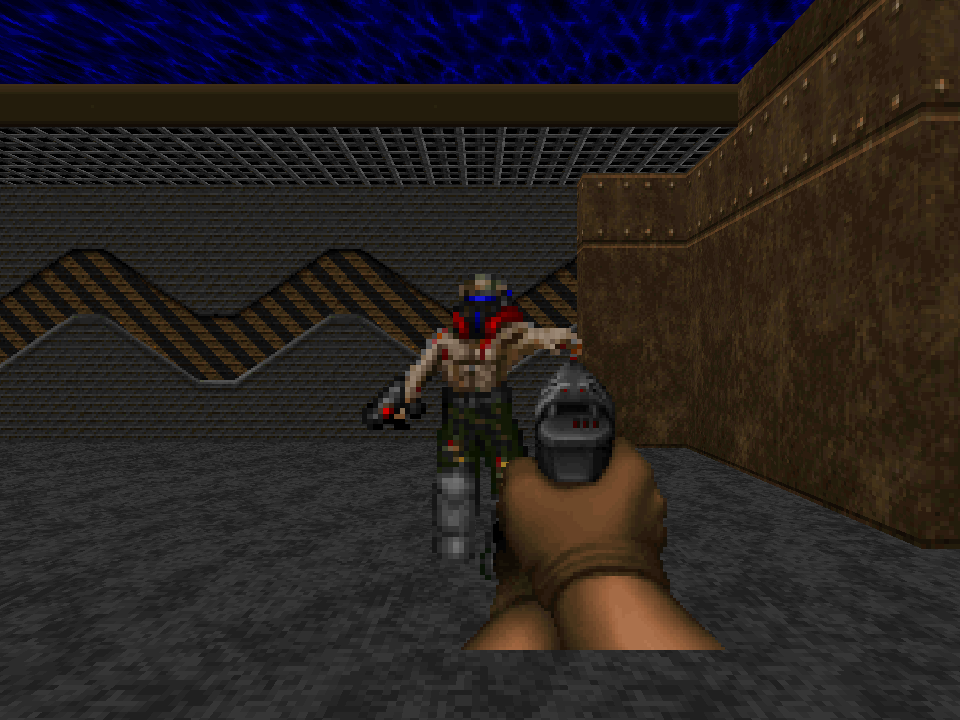
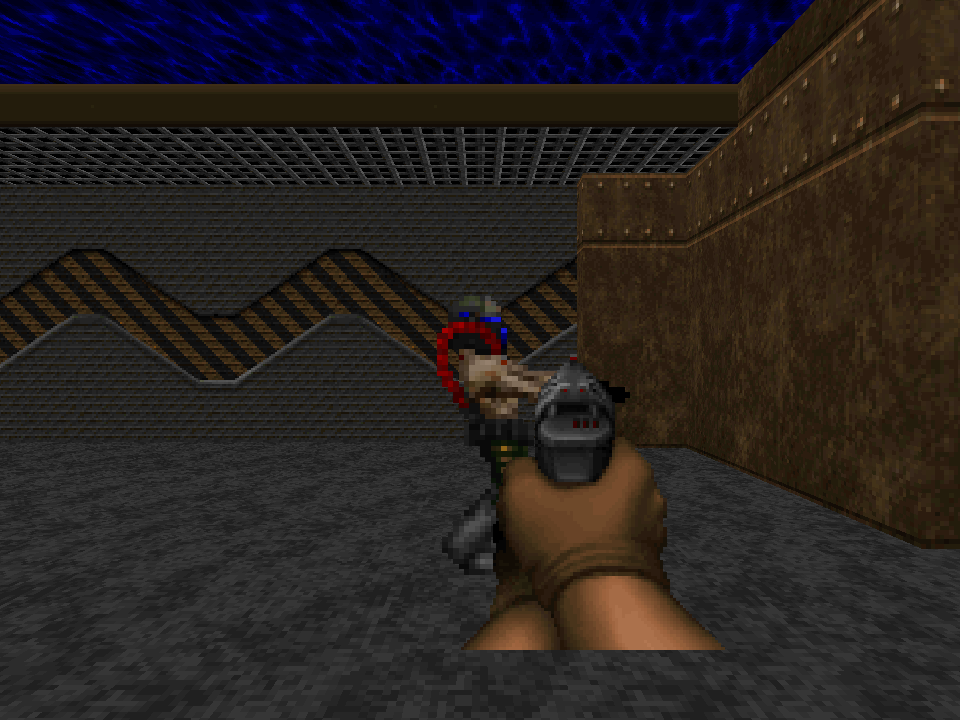
feat: select Freedoom enemy sprite views

Changed region(s): [[0.375, 0.3667, 0.625, 0.7944], [0.625, 0.5194, 0.6562, 0.5806]]

diff --git a/examples/freedoom_map.rs b/examples/freedoom_map.rs
@@ -634,17 +634,48 @@ fn monster_sprite(kind: u16) -> Option<([u8; 4], i32)> {
     }
 }
 
-fn sprite_walk_textures(data: &[u8], prefix: [u8; 4]) -> api::Result<Vec<SpriteTexture>> {
+fn sprite_walk_textures(data: &[u8], prefix: [u8; 4]) -> api::Result<Vec<Vec<SpriteTexture>>> {
+    let lumps = wad_lumps(data)?;
     b"ABCD"
         .iter()
-        .map(|frame| {
-            let mut name = [0; 8];
-            name[..4].copy_from_slice(&prefix);
-            name[4] = *frame;
-            name[5] = b'1';
-            sprite_patch_texture(data, name)
+        .map(|&frame| {
+            (1..=8)
+                .map(|rotation| {
+                    let (mut name, mut flip) = sprite_view_name(prefix, frame, rotation);
+                    if !lumps.iter().any(|lump| lump.name == name) {
+                        name = [0; 8];
+                        name[..4].copy_from_slice(&prefix);
+                        name[4] = frame;
+                        name[5] = b'0' + rotation;
+                        flip = false;
+                    }
+                    let mut texture = sprite_patch_texture(data, name)?;
+                    texture.horizontal_flip = flip;
+                    Ok(texture)
+                })
+                .collect()
         })
         .collect()
+}
+
+fn sprite_view_name(prefix: [u8; 4], frame: u8, rotation: u8) -> ([u8; 8], bool) {
+    let (first, second, flip): (u8, Option<u8>, bool) = match rotation {
+        1 => (b'1', None, false),
+        2 | 8 => (b'2', Some(b'8'), rotation == 8),
+        3 | 7 => (b'3', Some(b'7'), rotation == 7),
+        4 | 6 => (b'4', Some(b'6'), rotation == 6),
+        5 => (b'5', None, false),
+        _ => unreachable!("sprite rotation must be between one and eight"),
+    };
+    let mut name = [0; 8];
+    name[..4].copy_from_slice(&prefix);
+    name[4] = frame;
+    name[5] = first;
+    if let Some(second) = second {
+        name[6] = frame;
+        name[7] = second;
+    }
+    (name, flip)
 }
 
 fn actor_walk_frame_tics(sprite: [u8; 4]) -> f32 {
@@ -660,6 +691,10 @@ fn actor_walk_frame(sprite: [u8; 4], animation_time: f32) -> usize {
     let frame_tics = actor_walk_frame_tics(sprite);
     let cycle_seconds = frame_tics * 4.0 / 35.0;
     (animation_time.rem_euclid(cycle_seconds) * 35.0 / frame_tics).floor() as usize
+}
+
+fn actor_view_rotation(actor_angle: f32, viewer_to_actor_angle: f32) -> usize {
+    ((viewer_to_actor_angle - actor_angle + 202.5).rem_euclid(360.0) / 45.0).floor() as usize
 }
 
 fn sprite_patch_texture(data: &[u8], name: [u8; 8]) -> api::Result<SpriteTexture> {
@@ -692,6 +727,7 @@ fn sprite_patch_texture(data: &[u8], name: [u8; 8]) -> api::Result<SpriteTexture
         width: width as f32,
         height: height as f32,
         left_offset: left_offset as f32,
+        horizontal_flip: false,
     })
 }
 
@@ -784,7 +820,7 @@ struct PreparedScene {
     weapon_pipeline: Arc<ShaderPipeline>,
     sampler: Sampler,
     draws: Vec<Draw>,
-    sprites: BTreeMap<[u8; 4], Vec<SpriteTexture>>,
+    sprites: BTreeMap<[u8; 4], Vec<Vec<SpriteTexture>>>,
     pickup_sprites: BTreeMap<[u8; 4], SpriteTexture>,
     weapon_idle: SpriteTexture,
     weapon_fire: SpriteTexture,
@@ -800,6 +836,7 @@ struct SpriteTexture {
     width: f32,
     height: f32,
     left_offset: f32,
+    horizontal_flip: bool,
 }
 
 #[derive(Clone, Copy)]
@@ -810,6 +847,7 @@ struct Actor {
     health: i32,
     attack_cooldown: f32,
     animation_time: f32,
+    angle: f32,
 }
 
 struct Projectile {
@@ -890,6 +928,7 @@ fn billboard_vertices(
     bottom: f32,
     height: f32,
     sector: Sector,
+    horizontal_flip: bool,
 ) -> Vec<Vertex> {
     let right = Vertex2 {
         x: left.x + axis.x * width,
@@ -900,22 +939,27 @@ fn billboard_vertices(
     let top_left = world(left, bottom + height);
     let top_right = world(right, bottom + height);
     let color = shaded([1.0; 3], sector);
+    let (left_u, right_u) = if horizontal_flip {
+        (1.0, 0.0)
+    } else {
+        (0.0, 1.0)
+    };
     let mut vertices = Vec::with_capacity(6);
     push_triangle_uv(
         &mut vertices,
         [
-            (bottom_left, Vec2::new(0.0, 1.0)),
-            (bottom_right, Vec2::new(1.0, 1.0)),
-            (top_right, Vec2::new(1.0, 0.0)),
+            (bottom_left, Vec2::new(left_u, 1.0)),
+            (bottom_right, Vec2::new(right_u, 1.0)),
+            (top_right, Vec2::new(right_u, 0.0)),
         ],
         color,
     );
     push_triangle_uv(
         &mut vertices,
         [
-            (bottom_left, Vec2::new(0.0, 1.0)),
-            (top_right, Vec2::new(1.0, 0.0)),
-            (top_left, Vec2::new(0.0, 0.0)),
+            (bottom_left, Vec2::new(left_u, 1.0)),
+            (top_right, Vec2::new(right_u, 0.0)),
+            (top_left, Vec2::new(left_u, 0.0)),
         ],
         color,
     );
@@ -939,7 +983,15 @@ fn sprite_vertices(
         x: x - axis.x * sprite.left_offset,
         y: y - axis.y * sprite.left_offset,
     };
-    billboard_vertices(left, axis, sprite.width, bottom, sprite.height, sector)
+    billboard_vertices(
+        left,
+        axis,
+        sprite.width,
+        bottom,
+        sprite.height,
+        sector,
+        sprite.horizontal_flip,
+    )
 }
 
 fn projectile_vertices(
@@ -1027,7 +1079,7 @@ fn weapon_vertices(player: Player, sprite: &SpriteTexture, sector: Sector) -> Ve
         x: center.x - axis.x * width * 0.5,
         y: center.y - axis.y * width * 0.5,
     };
-    billboard_vertices(left, axis, width, sector.floor + 5.0, height, sector)
+    billboard_vertices(left, axis, width, sector.floor + 5.0, height, sector, false)
 }
 
 fn geometry(map: &Map, textures: &BTreeMap<[u8; 8], Arc<Texture>>) -> Result<Geometry, io::Error> {
@@ -1402,6 +1454,9 @@ fn update_actors(
         let dx = player.x - actor.x;
         let dy = player.y - actor.y;
         let distance = (dx * dx + dy * dy).sqrt();
+        if distance < 640.0 {
+            actor.angle = dy.atan2(dx).to_degrees().rem_euclid(360.0);
+        }
         if distance < 48.0 {
             if actor.attack_cooldown == 0.0 {
                 *health -= 8;
@@ -1569,7 +1624,7 @@ impl PreparedScene {
         let mut pickup_sprites = BTreeMap::new();
         let mut actors = Vec::new();
         let mut pickups = Vec::new();
-        for &(x, y, _, kind, flags) in &map.things {
+        for &(x, y, thing_angle, kind, flags) in &map.things {
             if flags & 2 == 0 || flags & 16 != 0 {
                 continue;
             }
@@ -1587,6 +1642,7 @@ impl PreparedScene {
                     health,
                     attack_cooldown: 0.0,
                     animation_time: 0.0,
+                    angle: thing_angle as f32,
                 });
             } else if let Some((prefix, health, ammo)) = pickup_definition(kind) {
                 if let Entry::Vacant(entry) = pickup_sprites.entry(prefix) {
@@ -1706,7 +1762,9 @@ impl PreparedScene {
             let Some(frames) = self.sprites.get(&actor.sprite) else {
                 continue;
             };
-            let sprite = &frames[actor_walk_frame(actor.sprite, actor.animation_time)];
+            let view_to_actor = (actor.y - player.y).atan2(actor.x - player.x).to_degrees();
+            let sprite = &frames[actor_walk_frame(actor.sprite, actor.animation_time)]
+                [actor_view_rotation(actor.angle, view_to_actor)];
             let vertices =
                 sprite_vertices(actor.x, actor.y, sprite, player.angle, sector, sector.floor);
             if vertices.is_empty() {
@@ -1966,6 +2024,42 @@ mod tests {
     }
 
     #[test]
+    fn enemy_sprite_views_use_doom_names_and_view_angle_buckets() {
+        assert_eq!(sprite_view_name(*b"TROO", b'A', 1), (*b"TROOA1\0\0", false));
+        assert_eq!(sprite_view_name(*b"TROO", b'A', 8), (*b"TROOA2A8", true));
+        assert_eq!(sprite_view_name(*b"TROO", b'A', 7), (*b"TROOA3A7", true));
+        assert_eq!(sprite_view_name(*b"TROO", b'A', 6), (*b"TROOA4A6", true));
+        assert_eq!(sprite_view_name(*b"TROO", b'A', 5), (*b"TROOA5\0\0", false));
+        assert_eq!(sprite_view_name(*b"SARG", b'B', 8), (*b"SARGB2B8", true));
+        assert_eq!(actor_view_rotation(0.0, 180.0), 0);
+        assert_eq!(actor_view_rotation(0.0, 90.0), 6);
+        assert_eq!(actor_view_rotation(0.0, 0.0), 4);
+        assert_eq!(actor_view_rotation(0.0, 270.0), 2);
+    }
+
+    #[test]
+    fn mirrored_sprite_views_reverse_billboard_texture_coordinates() {
+        let sector = Sector {
+            floor: 0.0,
+            ceiling: 128.0,
+            light: 255,
+            floor_flat: [0; 8],
+            ceiling_flat: [0; 8],
+        };
+        let vertices = billboard_vertices(
+            Vertex2 { x: 0.0, y: 0.0 },
+            Vertex2 { x: 1.0, y: 0.0 },
+            10.0,
+            0.0,
+            10.0,
+            sector,
+            true,
+        );
+        assert_eq!(vertices[0].uv.x, 1.0);
+        assert_eq!(vertices[1].uv.x, 0.0);
+    }
+
+    #[test]
     fn convex_hull_discards_interior_bsp_vertices() {
         let hull = convex_hull(vec![
             Vertex2 { x: 0.0, y: 0.0 },
@@ -2125,6 +2219,7 @@ mod tests {
             health: 20,
             attack_cooldown: 0.0,
             animation_time: 0.0,
+            angle: 0.0,
         }];
         let player = Player {
             x: 0.0,
@@ -2196,6 +2291,7 @@ mod tests {
             health: 60,
             attack_cooldown: 0.0,
             animation_time: 0.0,
+            angle: 0.0,
         }];
         let mut projectiles = Vec::new();
         let player = Player {
@@ -2214,6 +2310,7 @@ mod tests {
         );
         assert_eq!(actors[0].x, 64.0);
         assert_eq!(health, 100);
+        assert_eq!(actors[0].angle, 180.0);
         assert!(actors[0].animation_time > 0.0);
 
         actors[0].x = 40.0;
@@ -2265,6 +2362,7 @@ mod tests {
             health: 20,
             attack_cooldown: 0.0,
             animation_time: 0.0,
+            angle: 0.0,
         }];
         let mut projectiles = Vec::new();
         let player = Player {
@@ -2335,6 +2433,7 @@ mod tests {
             health: 60,
             attack_cooldown: 0.0,
             animation_time: 0.0,
+            angle: 0.0,
         }];
         let mut projectiles = Vec::new();
         let player = Player {

diff --git a/docs/freedoom.md b/docs/freedoom.md
@@ -33,7 +33,9 @@ when health or pistol ammo is below its 100 or 200 cap. The player starts with
 The combat slice loads four normal-skill enemy types from WAD things and their
 classic `A1`–`D1` walk sprite patches: former humans (20 health), shotgunners
 (30), imps (60), and demons (150). Moving enemies cycle those four frames using
-the original Doom state durations. Cutout billboards use a SILICON fragment shader. Space
+the original Doom state durations and choose among eight camera-relative views;
+paired Freedoom patches are horizontally flipped where Doom does so. Cutout
+billboards use a SILICON fragment shader. Space
 fires a 20-damage hitscan with a 0.35-second cooldown; pistol ammo caps at 200.
 Enemies chase within 640 map units and deal 8 melee damage within 48 units, at
 most once every 0.85 seconds. Former humans fire 3-damage hitscan attacks and
@@ -61,8 +63,8 @@ fixture is not included.
 
 This is a limited gameplay prototype, not Doom's complete player physics or
 game rules. Every BSP leaf is drawn; view-frustum traversal and BSP visibility
-culling, masked two-sided middle textures, enemy rotation and idle/attack/death
-states, projectile explosion frames and vertical motion, keys, exits, other weapons and
+culling, masked two-sided middle textures, enemy idle/attack/death states,
+projectile explosion frames and vertical motion, keys, exits, other weapons and
 their ammunition, full weapon animation beyond the brief idle/fire pose, and
 sound remain unimplemented.
 `F_SKY1` ceilings show the clear color. The checked-in
@@ -86,5 +88,6 @@ and id Software's [WAD](https://github.com/id-Software/DOOM/blob/master/linuxdoo
 [BSP point traversal](https://github.com/id-Software/DOOM/blob/master/linuxdoom-1.10/r_main.c),
 and [wall rendering](https://github.com/id-Software/DOOM/blob/master/linuxdoom-1.10/r_segs.c)
 references. The walk frame sequence and durations follow id Software's
-[monster states](https://github.com/id-Software/DOOM/blob/master/linuxdoom-1.10/info.c)
+[monster states](https://github.com/id-Software/DOOM/blob/master/linuxdoom-1.10/info.c),
+[sprite view selection](https://github.com/id-Software/DOOM/blob/master/linuxdoom-1.10/r_things.c),
 and [35-tic game clock](https://github.com/id-Software/DOOM/blob/master/linuxdoom-1.10/doomdef.h).

diff --git a/site/docs/freedoom.md b/site/docs/freedoom.md
@@ -33,7 +33,9 @@ when health or pistol ammo is below its 100 or 200 cap. The player starts with
 The combat slice loads four normal-skill enemy types from WAD things and their
 classic `A1`–`D1` walk sprite patches: former humans (20 health), shotgunners
 (30), imps (60), and demons (150). Moving enemies cycle those four frames using
-the original Doom state durations. Cutout billboards use a SILICON fragment shader. Space
+the original Doom state durations and choose among eight camera-relative views;
+paired Freedoom patches are horizontally flipped where Doom does so. Cutout
+billboards use a SILICON fragment shader. Space
 fires a 20-damage hitscan with a 0.35-second cooldown; pistol ammo caps at 200.
 Enemies chase within 640 map units and deal 8 melee damage within 48 units, at
 most once every 0.85 seconds. Former humans fire 3-damage hitscan attacks and
@@ -61,8 +63,8 @@ fixture is not included.
 
 This is a limited gameplay prototype, not Doom's complete player physics or
 game rules. Every BSP leaf is drawn; view-frustum traversal and BSP visibility
-culling, masked two-sided middle textures, enemy rotation and idle/attack/death
-states, projectile explosion frames and vertical motion, keys, exits, other weapons and
+culling, masked two-sided middle textures, enemy idle/attack/death states,
+projectile explosion frames and vertical motion, keys, exits, other weapons and
 their ammunition, full weapon animation beyond the brief idle/fire pose, and
 sound remain unimplemented.
 `F_SKY1` ceilings show the clear color. The checked-in
@@ -86,5 +88,6 @@ and id Software's [WAD](https://github.com/id-Software/DOOM/blob/master/linuxdoo
 [BSP point traversal](https://github.com/id-Software/DOOM/blob/master/linuxdoom-1.10/r_main.c),
 and [wall rendering](https://github.com/id-Software/DOOM/blob/master/linuxdoom-1.10/r_segs.c)
 references. The walk frame sequence and durations follow id Software's
-[monster states](https://github.com/id-Software/DOOM/blob/master/linuxdoom-1.10/info.c)
+[monster states](https://github.com/id-Software/DOOM/blob/master/linuxdoom-1.10/info.c),
+[sprite view selection](https://github.com/id-Software/DOOM/blob/master/linuxdoom-1.10/r_things.c),
 and [35-tic game clock](https://github.com/id-Software/DOOM/blob/master/linuxdoom-1.10/doomdef.h).
